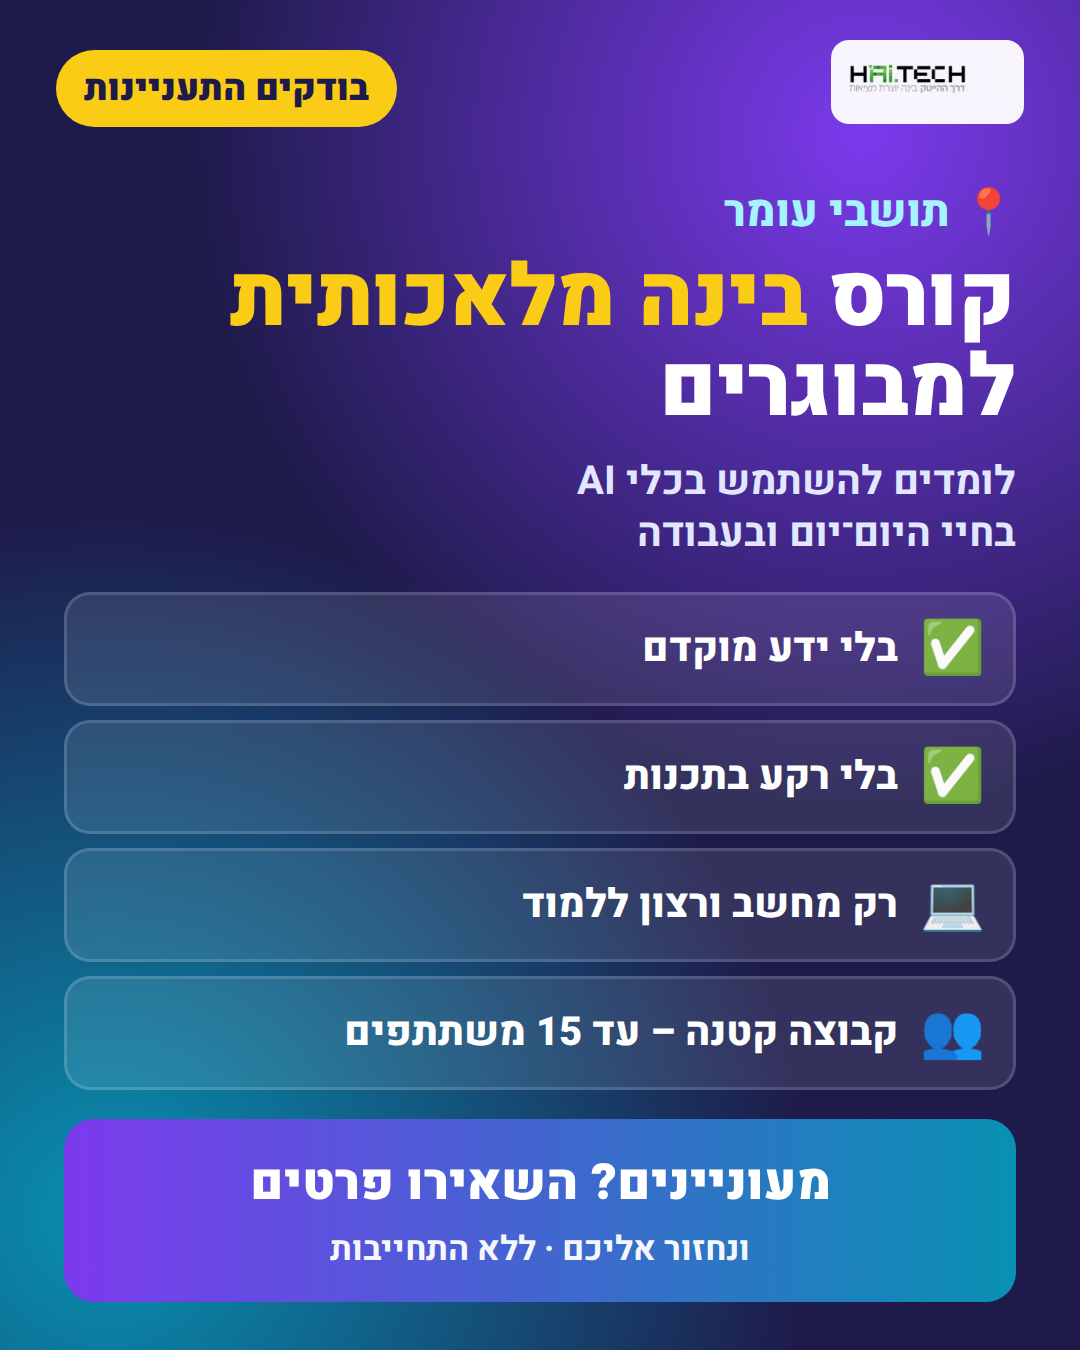
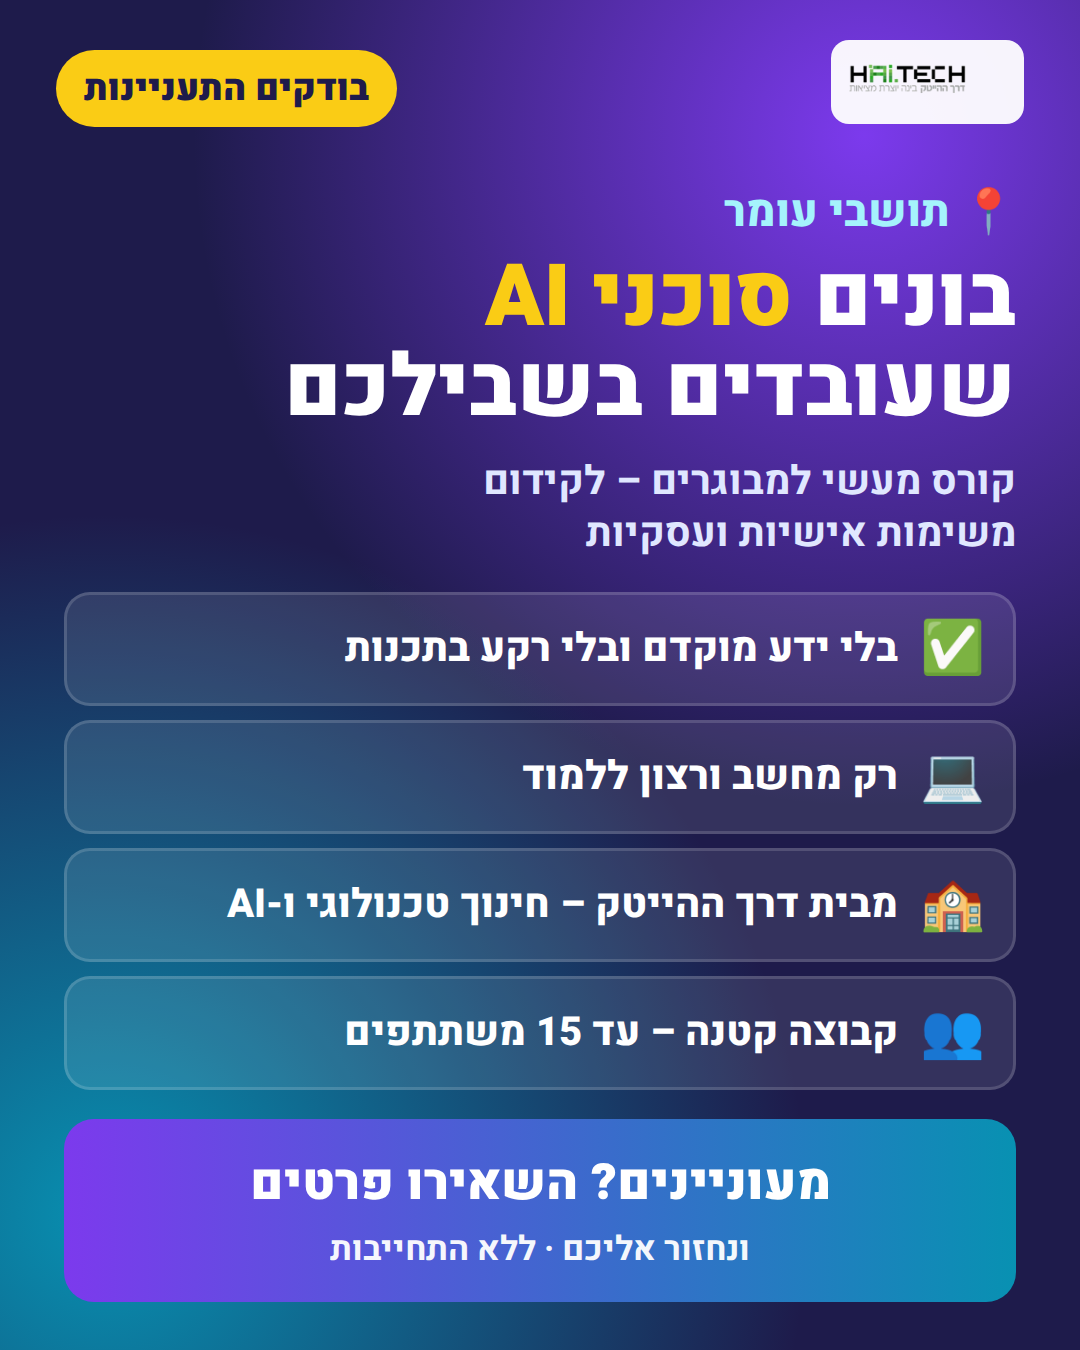
feat: professional copy for Omer adults AI agents interest page

diff --git a/ai-adults-omer.html b/ai-adults-omer.html
@@ -3,7 +3,7 @@
 <head>
 <meta charset="UTF-8">
 <meta name="viewport" content="width=device-width, initial-scale=1.0">
-<title>קורס יישומי בינה מלאכותית למבוגרים בעומר | דרך ההייטק</title>
+<title>קורס בניית סוכני AI למבוגרים בעומר | דרך ההייטק</title>
 <meta name="description" content="אנחנו בודקים פתיחה של קורס מעשי ביישומי בינה מלאכותית למבוגרים בעומר. בלי ידע מוקדם ובלי רקע בתכנות. קבוצה קטנה עד 15 משתתפים. השאירו פרטים ונחזור אליכם.">
 <meta name="robots" content="noindex">
 <meta property="og:title" content="קורס יישומי AI למבוגרים בעומר – בודקים התעניינות">
@@ -43,8 +43,23 @@ footer{text-align:center;color:#6b7280;font-size:.9rem;margin-top:26px}
 
 <section class="hero">
  <span class="tag">בודקים התעניינות 🙋</span>
- <h1>קורס יישומי בינה מלאכותית למבוגרים בעומר</h1>
- <p>אנחנו מתכננים לפתוח בעומר קורס מעשי שבו לומדים להשתמש בכלי AI בחיי היום־יום ובעבודה. אם זה מעניין אתכם, השאירו פרטים ונחזור אליכם.</p>
+ <h1>קורס מעשי בבניית סוכני בינה מלאכותית למבוגרים בעומר</h1>
+ <p>דרך ההייטק מתכננת לפתוח בעומר קורס מעשי שבו תלמדו לבנות <strong>סוכני בינה מלאכותית</strong> שיעזרו לכם לקדם משימות אישיות ועסקיות. אם זה מעניין אתכם, השאירו פרטים ונחזור אליכם.</p>
+</section>
+
+<section class="card">
+ <h2>מי אנחנו?</h2>
+ <p>דרך ההייטק מפעילה בעומר ובדרום חוגי תכנות ובינה מלאכותית לילדים ובני נוער, ובונה סוכני AI ואוטומציות לעסקים ולמועצות אזוריות. את הניסיון הזה אנחנו מביאים עכשיו גם למבוגרים, בצורה מעשית ונגישה.</p>
+</section>
+
+<section class="card">
+ <h2>מה נלמד?</h2>
+ <ul>
+  <li>🤖 לבנות סוכני AI אישיים שעובדים בשבילכם</li>
+  <li>⚡ לחסוך זמן במשימות היום־יום ובעבודה</li>
+  <li>💼 לקדם משימות עסקיות: תוכן, שיווק, לקוחות וניהול</li>
+  <li>🧠 להכיר את הכלים המובילים ולהשתמש בהם נכון</li>
+ </ul>
 </section>
 
 <section class="card">
